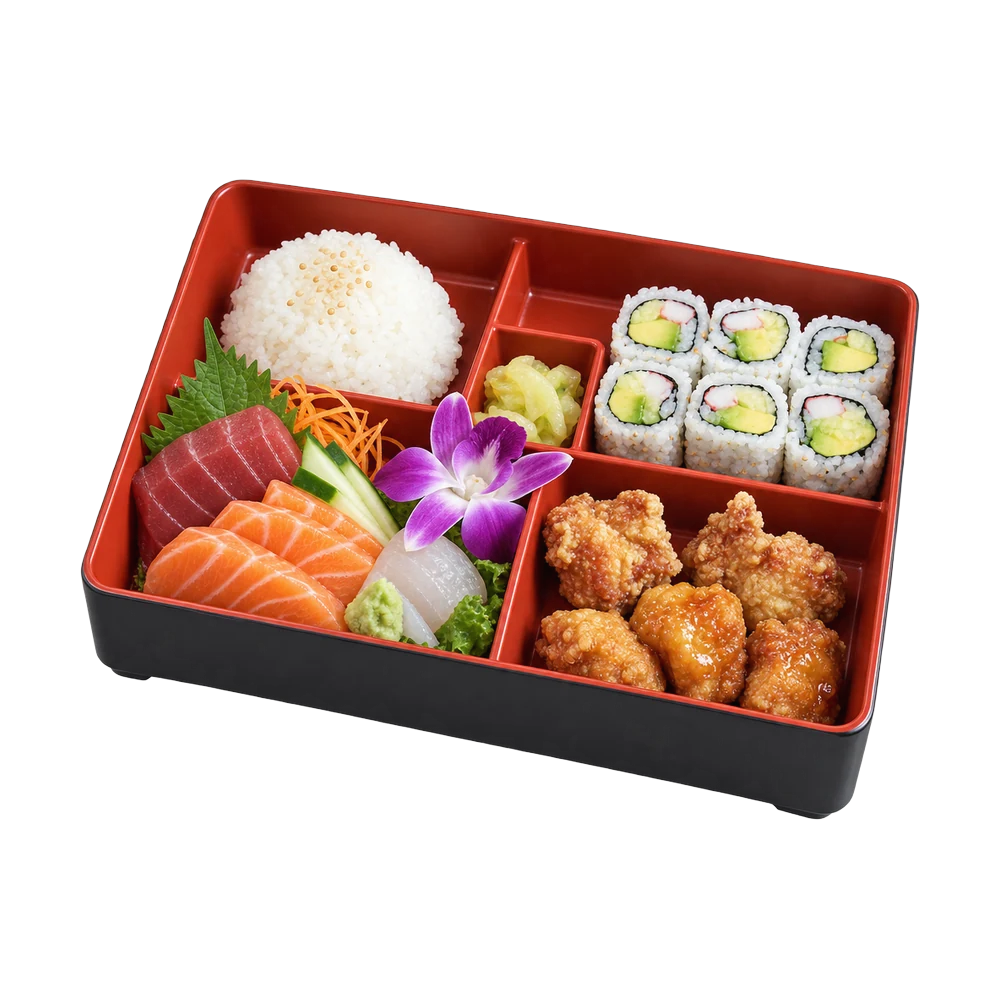
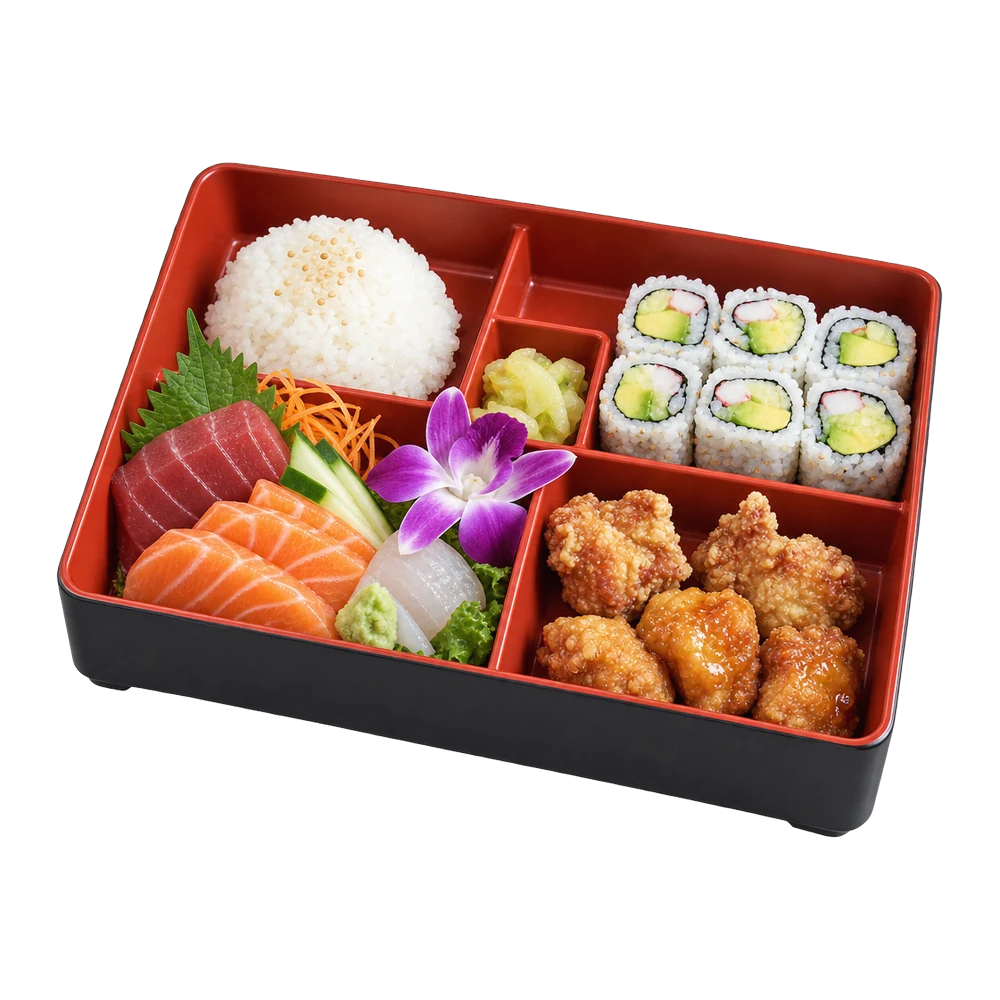
手机版多重验证 + 店家旧拍摄入站(菜单 27 张透明图、相册 +4)+ 独立审稿后的手机端修正
手机验证(毛 10-02): seo/check-mobile.mjs(npm run mobile)——iPhone WebKit / Pixel Chromium / 360 / 320 四种配置 × 10 页:图片全加载且不糊、无横向溢出、无报错;展开导航/下拉(展开后 RESERVE TODAY 仍够得着)/页签/分类/地图/相册/表单/底部栏;锚点不被粘性栏盖住;触屏无悬停放大、悬浮在跑、减少动效全停、视频点按播放、开场可跳过、页头不抖;菜品图每排排满。三种注入缺陷(溢出/糊图/锚点被盖)均已红。
首轮即查出: Happy Hour 页只有 1 张图 → 补 3 张同名小食图。
店家旧拍摄(Google Drive 594 张,精选 63 张存飞书与 fyno-proposals):
- 菜单透明图(同一套 prompt,参考=店家自己的照片)+8: Spicy Beef Ramen / Tomato Seafood Ramen / Chicken Yaki Udon(正俯拍)/ Karaage / Crispy Wings / 69 Shrimp / Salmon Lunch / Eel Lunch;Vegetables Ramen 换成店家照片参考
- 相册 +4(只裁切提亮调暖,不生成),成组插在中间,电脑/手机都排满;tests 2/9→2/13
- 每个配图分区张数必须是 3 的倍数(三个卷的透明图已做好但只有 1 张/区,暂不上)
独立审稿(只看截图)后的修正: 透明图按视觉面积统一大小;乌冬改正俯拍;蔬菜煎饺降绿;手机首屏只留 ORDER ONLINE 一个主按钮、照片加高(RESERVE 在底部栏);展开的导航可滚动 + ORDER ONLINE 行补分隔线;灯箱背景更实、CLOSE 不再压图;页脚与底部栏之间的米色缝;版权行不再孤字;CTA 条 HUNGRY? 改白、说明不在词组中间断行;手机图注菜名/价格分两行;奇数张时最后一张占整行

Changed region(s): [[0.031, 0.155, 0.961, 0.837]]

diff --git a/content/featured.ts b/content/featured.ts
@@ -17,11 +17,14 @@ const ricePair = (teri:string,katsu:string,gyu:string):Feat[] => [
   {itemId:gyu, img:'/images/dish-gyu-don.webp', alt:'Marinated sliced beef with bell peppers and onions over rice'},
 ];
 export const featured: Record<string, Feat[]> = {
-  // 拉面三碗:都是俯拍黑碗透明图——Tonkotsu、Chicken Yuzu 来自 09-22 店内实拍(只抠背景),Vegetables Ramen 来自顾客照片参考
+  // 拉面:俯拍黑碗透明图。Tonkotsu / Chicken Yuzu 来自 09-22 店内实拍;其余来自店家早先自己的拍摄(Google Drive 4.13–8.18)
   'dinner--ramen-noodles': [
     {itemId:'dinner-13-2',  img:'/images/dish-tonkotsu.webp', alt:'Tonkotsu ramen with braised pork belly, soft eggs, corn and arugula in a black bowl'},
     {itemId:'dinner-13-16', img:'/images/dish-chicken-yuzu.webp', alt:'Grilled chicken yuzu ramen with soft eggs, lime and bok choy in a black bowl'},
-    {itemId:'dinner-13-11', img:'/images/dish-vegetable-ramen.webp', alt:'Vegetables ramen with glazed tofu, shiitake, bok choy and spinach in a black bowl'},
+    {itemId:'dinner-13-11', img:'/images/dish-vegetables-ramen.webp', alt:'Vegetables ramen with glazed tofu, shiitake, bok choy and spinach in a black bowl'},
+    {itemId:'dinner-13-5',  img:'/images/dish-spicy-beef-ramen.webp', alt:'Spicy beef ramen with roasted chashu beef, arugula and shredded red pepper'},
+    {itemId:'dinner-13-13', img:'/images/dish-tomato-seafood-ramen.webp', alt:'Tomato seafood ramen with shrimp, squid, scallops and bean sprouts'},
+    {itemId:'dinner-13-21', img:'/images/dish-chicken-yaki-udon.webp', alt:'Chicken yaki udon with bell pepper, onion and broccoli'},
   ],
   'dinner--appetizers': [
     {itemId:'dinner-0-5',  img:'/images/dish-takoyaki.webp', alt:'Takoyaki with Kewpie mayo and bonito flakes'},
@@ -30,6 +33,9 @@ export const featured: Record<string, Feat[]> = {
     {itemId:'dinner-0-6',  img:'/images/dish-shumai.webp', alt:'Fried shrimp shumai'},
     {itemId:'dinner-0-13', img:'/images/dish-ika-yaki.webp', alt:'Grilled whole squid with teriyaki glaze and a lemon wedge'},
     {itemId:'dinner-0-1',  img:'/images/dish-edamame.webp', alt:'A bowl of steamed edamame'},
+    {itemId:'dinner-0-8',  img:'/images/dish-karaage.webp', alt:'Karaage fried chicken with sesame seeds and spicy mayo dip'},
+    {itemId:'dinner-0-10', img:'/images/dish-crispy-wings.webp', alt:'Crispy chicken wings on lettuce with jalapeño'},
+    {itemId:'dinner-0-11', img:'/images/dish-69-shrimp.webp', alt:'Five deep fried shrimp pops on lettuce'},
   ],
   'dinner--sushi-entree': [
     {itemId:'dinner-7-4', img:'/images/dish-zen-don.webp', alt:'Assorted fish over sushi rice'},
@@ -40,7 +46,15 @@ export const featured: Record<string, Feat[]> = {
   'dinner--rice-dishes': ricePair('dinner-11-2','dinner-11-5','dinner-11-4'),
   'lunch--bento-box': bentoTrio('lunch-2-8','lunch-2-4','lunch-2-3'),
   'lunch--rice-dishes': ricePair('lunch-1-2','lunch-1-5','lunch-1-4'),
+  // Happy Hour 的同名小食沿用晚市那三张(同一道菜;HH 份量店里未另行确认)
+  'happy-hour--appetizers': [
+    {itemId:'happy-hour-0-2', img:'/images/dish-edamame.webp', alt:'A bowl of steamed edamame'},
+    {itemId:'happy-hour-0-5', img:'/images/dish-gyoza.webp', alt:'Pan fried pork gyoza with dipping sauce'},
+    {itemId:'happy-hour-0-3', img:'/images/dish-shumai.webp', alt:'Fried shrimp shumai'},
+  ],
   'lunch--sushi-bar': [
     {itemId:'lunch-0-1', img:'/images/dish-lunch-sashimi.webp', alt:'Sashimi plate with sushi rice, tuna tartare, salmon, yellowtail and tuna'},
+    {itemId:'lunch-0-5', img:'/images/dish-salmon-lunch.webp', alt:'Salmon lunch: four salmon nigiri and a salmon roll'},
+    {itemId:'lunch-0-9', img:'/images/dish-eel-lunch.webp', alt:'Eel lunch: four eel nigiri and an eel roll'},
   ],
 };

diff --git a/components/Shared.tsx b/components/Shared.tsx
@@ -1,7 +1,7 @@
 import Link from '@/components/StaticLink';
 import { site } from '@/content/site';
 export function Arrow(){return <span aria-hidden="true">↗</span>;}
-export function Footer(){return <footer className="footer"><div className="footer-top"><Link href="/" className="footer-wordmark">ZEN<span>RAMEN & SUSHI</span></Link><div><span className="eyebrow">FIND YOUR ZEN</span><p>{site.address}<br/><a href={site.phoneHref}>{site.phone}</a><br/><a href={'mailto:'+site.email}>{site.email}</a></p></div><div className="footer-links"><Link href="/menu/">Menu <Arrow/></Link><Link href="/happy-hour/">Happy Hour <Arrow/></Link><Link href="/events-catering/">Events & Catering <Arrow/></Link><Link href="/gallery/">Gallery <Arrow/></Link><a href={site.order} data-cta="footer-order" target="_blank" rel="noopener noreferrer">Order online <Arrow/></a><a href={site.reserve} data-cta="footer-reserve" target="_blank" rel="noopener noreferrer">Reserve a table <Arrow/></a></div></div><div className="footer-bottom"><span>© {new Date().getFullYear()} ZEN RAMEN & SUSHI · MAXIM INTERNATIONAL GROUP INC</span><div><Link href="/privacy-policy/">Privacy Policy</Link><Link href="/terms-conditions/">Terms & Conditions</Link></div><span>NEW YORK, NY <span className="red-dot"/></span></div></footer>;}
+export function Footer(){return <footer className="footer"><div className="footer-top"><Link href="/" className="footer-wordmark">ZEN<span>RAMEN & SUSHI</span></Link><div><span className="eyebrow">FIND YOUR ZEN</span><p>{site.address}<br/><a href={site.phoneHref}>{site.phone}</a><br/><a href={'mailto:'+site.email}>{site.email}</a></p></div><div className="footer-links"><Link href="/menu/">Menu <Arrow/></Link><Link href="/happy-hour/">Happy Hour <Arrow/></Link><Link href="/events-catering/">Events & Catering <Arrow/></Link><Link href="/gallery/">Gallery <Arrow/></Link><a href={site.order} data-cta="footer-order" target="_blank" rel="noopener noreferrer">Order online <Arrow/></a><a href={site.reserve} data-cta="footer-reserve" target="_blank" rel="noopener noreferrer">Reserve a table <Arrow/></a></div></div><div className="footer-bottom"><span>© {new Date().getFullYear()} ZEN RAMEN & SUSHI · <span className="nowrap">MAXIM INTERNATIONAL GROUP INC</span></span><div><Link href="/privacy-policy/">Privacy Policy</Link><Link href="/terms-conditions/">Terms & Conditions</Link></div><span>NEW YORK, NY <span className="red-dot"/></span></div></footer>;}
 export function PageHeading({label,title,description}:{label:string;title:string;description?:string}){return <section className="page-heading container"><p className="eyebrow red">{label}</p><h1>{title}<span className="red">.</span></h1>{description&&<p className="page-description">{description}</p>}</section>;}
 export function GalleryStrip(){return <section className="gallery-preview container"><div className="section-heading"><div><p className="eyebrow red">A TASTE OF ZEN</p><h2>Good food.<br/>Great company.</h2></div><Link className="text-link" href="/gallery/">EXPLORE THE GALLERY <Arrow/></Link></div><div className="gallery-strip"><img src="/images/shot-strip-seared-roll.webp" width="1536" height="1024" alt="A seared special roll with spicy mayo, eel sauce and an orchid" loading="lazy"/><img src="/images/shot-dining-room-bright.webp" width="1536" height="1024" alt="The dining room under paper lanterns and banners" loading="lazy"/><img src="/images/shot-strip-lantern.webp" width="1536" height="1024" alt="A glowing paper lantern among hanging banners" loading="lazy"/></div></section>;}
 

diff --git a/app/globals.css b/app/globals.css
@@ -148,3 +148,28 @@ html{overflow-anchor:none}
 @media(prefers-reduced-motion:reduce){.featured-photo img{transition:none}}
 
 /* 2026-10-02 链接审计: .food-section 曾用 content-visibility:auto + 估高 900px,真实高度大得多 → 点分类链接/带 # 打开菜单页时,浏览器按估高算位置、滚动中又被撑开,落点偏几千像素(落在别的区块)。去掉,改成正常渲染。 */
+
+/* ===== 手机版复核 2026-10-02(独立审稿后的修正;只动手机端细节,不改结构) ===== */
+.cta-band .eyebrow{color:#fff}
+.cta-band-note span{white-space:nowrap}
+.lightbox::backdrop{background:#0e100efa}
+.lightbox-close{padding:16px 2px 16px 14px}
+.lightbox-close:focus-visible{outline:2px solid #fff;outline-offset:-4px}
+.footer-bottom .nowrap{white-space:nowrap}
+@media(max-width:1000px){
+/* 展开的导航可以在面板内滚动:ORDER ONLINE 下拉打开后,下面的 EVENTS/CATERING 与 RESERVE TODAY 仍够得着 */
+.navigation.mobile-open{max-height:calc(100dvh - var(--header-h));overflow-y:auto;overscroll-behavior:contain;-webkit-overflow-scrolling:touch}
+.navigation.mobile-open .delivery{border-bottom:1px solid var(--line)}
+}
+@media(max-width:650px){
+/* 首屏:底部固定栏已有 RESERVE,首屏只留一个主按钮,把高度让给菜品照片 */
+.hero-actions .text-link{display:none}
+.hero-photo{height:clamp(180px,27svh,290px)}
+/* 底部固定栏高 68px;原来给 body 留 76px,多出的 8px 在页脚下面露出一条米色 */
+body{padding-bottom:calc(68px + env(safe-area-inset-bottom))}
+/* 菜品图注:菜名一行、价格另起一行,避免「Ramen」「(Dry)」单独掉到第二行 */
+.featured-dish figcaption{flex-direction:column;align-items:flex-start;gap:2px}
+/* 一排两张时,奇数张的最后一张占满整行(横向卡片),不留空格 */
+.featured-dish:last-child:nth-child(odd){grid-column:1 / -1}
+.featured-dish:last-child:nth-child(odd) .featured-photo{aspect-ratio:2/1}
+}

diff --git a/content/media.ts b/content/media.ts
@@ -4,6 +4,11 @@ export const gallery = [
  {src:'/images/shot-hero-noodle-lift.webp',alt:'Chopsticks lifting thick noodles from a bowl of grilled chicken noodle soup',label:'NOODLES',wide:false},
  {src:'/images/shot-long-table.webp',alt:'A long communal table set for a group in the Zen dining room',label:'THE SPACE',wide:false},
  {src:'/images/shot-shared-table.webp',alt:'Ramen, sushi rolls and an iced drink shared across one table',label:'AT THE TABLE',wide:false},
+ // 以下四张来自店家早先自己的拍摄(Google Drive 4.13–8.18),只裁切+提亮+调暖,不生成。成组插在中间:宽/窄/窄/宽,电脑(3 列)和手机(2 列)都排满
+ {src:'/images/archive-table-spread.webp',alt:'A full table seen from above: ramen, yaki udon, sushi rolls, gyoza and karaage',label:'THE SPREAD',wide:true},
+ {src:'/images/archive-vegetable-ramen.webp',alt:'Vegetable ramen with glazed tofu, bok choy and greens, seen from above',label:'VEGGIE RAMEN',wide:false},
+ {src:'/images/archive-karaage.webp',alt:'Karaage fried chicken with sesame seeds and a spicy mayo dip, seen from above',label:'SMALL PLATES',wide:false},
+ {src:'/images/archive-sushi-platter.webp',alt:'A sushi and sashimi platter with an orchid',label:'FROM THE SUSHI BAR',wide:true},
  {src:'/images/shot-sashimi-box.webp',alt:'A wooden box of salmon, tuna and yellowtail sashimi with sushi rolls',label:'SUSHI & SASHIMI',wide:true},
  {src:'/images/shot-hh-martini.webp',alt:'A pink martini on the wooden bar',label:'HAPPY HOUR',wide:false},
  {src:'/images/shot-gallery-lantern.webp',alt:'A paper lantern and hanging banners in the dining room',label:'THE DETAILS',wide:false},

diff --git a/components/CtaBand.tsx b/components/CtaBand.tsx
@@ -10,7 +10,7 @@ export default function CtaBand(){
   if(HIDE.includes(path)) return null;
   return <section className="cta-band" aria-labelledby="cta-band-title">
     <div className="cta-band-inner">
-      <div><p className="eyebrow">HUNGRY?</p><h2 id="cta-band-title">Ramen &amp; sushi, ready when you are.</h2><p className="cta-band-note">150 W 36th St, Midtown · Walk-ins welcome · Happy hour daily 4–8 PM</p></div>
+      <div><p className="eyebrow">HUNGRY?</p><h2 id="cta-band-title">Ramen &amp; sushi, ready when you are.</h2><p className="cta-band-note"><span>150 W 36th St, Midtown</span> · <span>Walk-ins welcome</span> · <span>Happy hour daily 4–8 PM</span></p></div>
       <div className="cta-band-actions">
         <a className="button button-cream" href={site.order} data-cta="band-order" target="_blank" rel="noopener noreferrer">ORDER ONLINE <Arrow/></a>
         <a className="button button-ghost" href={site.reserve} data-cta="band-reserve" target="_blank" rel="noopener noreferrer">RESERVE A TABLE <Arrow/></a>

diff --git a/tests/site.spec.ts b/tests/site.spec.ts
@@ -29,7 +29,7 @@ test('mobile navigation, delivery menu and Escape',async({page})=>{
 });
 test('gallery dialog keyboard controls and focus restoration',async({page})=>{
  await page.goto('/gallery/');const first=page.getByRole('button',{name:/Enlarge:/}).first();await first.click();
- await expect(page.getByRole('dialog')).toBeVisible();await page.keyboard.press('ArrowRight');await expect(page.locator('.lightbox-controls')).toContainText('2 / 9');
+ await expect(page.getByRole('dialog')).toBeVisible();await page.keyboard.press('ArrowRight');await expect(page.locator('.lightbox-controls')).toContainText('2 / 13');
  await page.keyboard.press('Escape');await expect(page.getByRole('dialog')).not.toBeVisible();await expect(first).toBeFocused();
 });
 test('map loads only on request and can switch back without shifting the card',async({page})=>{

diff --git a/docs/menu-dish-images.md b/docs/menu-dish-images.md
@@ -1,6 +1,6 @@
 # 菜单菜品透明图：怎么来的、prompt 是什么（2026-10-02）
 
-菜单页 featured 区的 19 张 `public/images/dish-*.webp`（15 道原有 + 10-02 补的拉面三碗 + Bento 的刺身便当），不是 AI 凭空画的菜，也不是直接用顾客照片：
+菜单页 featured 区的 27 张 `public/images/dish-*.webp`（15 道原有 + 10-02 补的拉面三碗 + Bento 的刺身便当），不是 AI 凭空画的菜，也不是直接用顾客照片：
 **每张都以同一道菜的一张真实顾客照片（Google Maps）为参考，用 gpt-image-2.5「编辑」生成**，要求「同一道菜，只提升拍摄质量」，输出真透明背景。生成后由毛逐张对照真实参考审过（2026-10-02）。
 
 ## 通用 prompt（每张都用，后面接一句菜的描述）
@@ -46,3 +46,13 @@ gpt-image-2.5-sunburst（质量优先档）· 编辑接口 + `background=transpa
 
 ## 验收
 `node seo/check-menu-photos.mjs data|render` · `node seo/check-menu-motion.mjs`（动效）。
+
+
+## 2026-10-02 补:店家自己的旧拍摄(Google Drive)
+Google Drive「Zen Ramen & Sushi」(5 次拍摄 4.13–8.18,594 张照片 + 315 条视频,Sony A7R5,店家自己请人拍的 → 无版权顾虑)。全部看过,精选 63 张存在飞书 `024 Zen Ramen Penn/图片/1002 店家旧拍摄精选(Google Drive)`(token `E2iVfFs0Ql9FSqdfSsuc1C5jnHc`)与 `fyno-proposals/clients/zenramen-midtown/drive-shoot-picks-2026-10-02/`(含 README 索引、每张的 Drive 原片链接、全量缩略总览)。
+- **菜单透明图(同一套 prompt,参考=店家自己的照片)新增 8 张 + 替换 1 张**:Spicy Beef Ramen、Tomato Seafood Ramen(去掉了碗里的木勺)、Chicken Yaki Udon(改成正俯拍,和一排俯拍拉面碗统一)、Karaage、Crispy Wings、69 Shrimp、Salmon Lunch — Sushi、Eel Lunch — Sushi;Vegetables Ramen 由「顾客照片参考」换成「店家照片参考」(`dish-vegetables-ramen.webp`,旧 `dish-vegetable-ramen.webp` 已删)。
+- **相册加 4 张场景图** `archive-*.webp`(整桌俯拍 THE SPREAD / 素拉面俯拍 VEGGIE RAMEN / 唐扬俯拍 SMALL PLATES / 寿司刺身拼盘 FROM THE SUSHI BAR):只裁切 + 提亮 + **把灰色桌面调成暖木色**(对低饱和像素乘 R×1.20、B×0.66,对有颜色的食物只轻微调暖),与现有木桌暖调统一,不生成。成组插在相册中间,顺序 宽/窄/窄/宽,电脑 3 列与手机 2 列都排满(窄图必须成对出现,否则手机上会空一格)。试过又弃用的:炒乌冬(上半截是虚的砖墙)、鸡翅(过饱和、被裁)、便当(黑盒子占一半)、心形卷特写(发虚)。
+- **一排必须排满**:每个有配图的分区,图的张数必须是 3 的倍数(`check-menu-photos.mjs data` 强制)。Rainbow / Crazy Yellowtail / Sweetheart 三个卷的透明图已做好但**没上线**(各自分区只有 1 张,会留一大块空白);等同分区再凑 2 张能对上菜名的卷再上。
+- Tomato Seafood Ramen 的菜名是按菜单描述推断的(红汤、普通豆芽、无辣椒丝),待店里确认。
+- **统一大小(独立审稿后)**:透明图不再按「长边 84%」,而是按**外接框面积占画布 60%、长边不超过 90%**缩放——长盘子(煎饺、鸡翅、便当)不再显得比圆碗小一圈。重新处理要从原始 1024 PNG 做(母版在 `fyno-proposals/clients/zenramen-midtown/menu-dish-cutouts-2026-10-01/png/` 与本次会话的生成目录),不要拿 webp 二次缩放。
+- 蔬菜煎饺绿色过艳:只对绿色占优的像素降饱和 22%。

diff --git a/GATES-menu-photos.md b/GATES-menu-photos.md
@@ -2,14 +2,14 @@
 
 OWNS: content/featured.ts, content/photo-sources.json, components/MenuBrowser.tsx, components/DishMotion.tsx, app/menu/page.tsx, app/globals.css, public/images/dish-*.webp, seo/check-menu-photos.mjs, seo/check-menu-motion.mjs, docs/design-references.md, docs/menu-dish-images.md, GATES-menu-photos.md
 
-Scope: 午市/晚市菜单页的 19 张菜品图 = 以真实顾客照片为参考、「同一道菜只改拍摄质量」重拍的透明背景图,每张只出现在它拍的那道菜上;图上加轻微动效(悬浮、移上放大),不改结构、不遮挡文字与下单。
+Scope: 菜单页的 27 张菜品图 = 以真实顾客照片为参考、「同一道菜只改拍摄质量」重拍的透明背景图,每张只出现在它拍的那道菜上;图上加轻微动效(悬浮、移上放大),不改结构、不遮挡文字与下单。
 
-- [x] M1: 数据对:每个配图条目的分区/菜品都存在;每张菜品透明图有来源台账、只挂在台账允许的菜品上;文件是 ≥1000 的方图、有透明通道、菜离画布边 ≥5%、≤250KB;共 19 张都被使用
+- [x] M1: 数据对:每个配图条目的分区/菜品都存在;每张菜品透明图有来源台账、只挂在台账允许的菜品上;文件是 ≥1000 的方图、有透明通道、菜离画布边 ≥5%、≤250KB;共 27 张都被使用,且每个分区的张数是 3 的倍数
   CHECK: node seo/check-menu-photos.mjs data 2>&1 | node -e "let s='';process.stdin.on('data',d=>s+=d).on('end',()=>console.log(s.includes('MENU-PHOTOS-DATA PASS')?'MENU-PHOTOS-DATA PASS':s))"
   EXPECT: MENU-PHOTOS-DATA PASS
   EVIDENCE: exit=0; shell=/bin/sh; cwd=/Users/apple/Desktop/Orca/zen-ramen-sushi-v2; path=b23d0ac203a6/32 entries; EXPECT=matched; output-sha256=69962908fed6cfb69f211cdca41fd56dcca43ff11b10c8dc001b7b2fe850554a; output-bytes=22
 
-- [x] M2: 渲染对:电脑与手机上,午市页有 ≥7 张、晚市页有 ≥18 张图真的显示(已加载、宽度≥1000)、图注正确(Katsu Bento Box / I. Shrimp Teriyaki / D. Sashimi (5 pcs) / Gyu Don)、无横向溢出
+- [x] M2: 渲染对:电脑与手机上,午市页有 ≥9 张、晚市页有 ≥24 张图真的显示(已加载、宽度≥1000)、图注正确(Katsu Bento Box / I. Shrimp Teriyaki / D. Sashimi (5 pcs) / Gyu Don / Salmon Lunch — Sushi / Eel Lunch — Sushi)、无横向溢出
   CHECK: node seo/check-menu-photos.mjs render
   EXPECT: MENU-PHOTOS-RENDER PASS
   EVIDENCE: exit=0; shell=/bin/sh; cwd=/Users/apple/Desktop/Orca/zen-ramen-sushi-v2; path=b23d0ac203a6/32 entries; EXPECT=matched; output-sha256=295b7aea21da1228f8ed9f3fc7acf1bc7b87932cb7722c758ee5d7ae1460bb37; output-bytes=493

diff --git a/GATES-mobile.md b/GATES-mobile.md
@@ -1,0 +1,24 @@
+# Gates: 手机版多重验证(2026-10-02)
+
+OWNS: seo/check-mobile.mjs, GATES-mobile.md, package.json, app/globals.css, components/**, CLAUDE.md
+
+Scope: 手机版按「按钮/链接审计」同一标准测过,并覆盖「展开信息(导航/下拉/页签/分类)、动态(悬浮/视频/减少动效/触屏无悬停/页头不抖)、图片(全部加载/不破图/不糊/不溢出)」;iPhone WebKit + 安卓 Chromium + 360/320 窄屏;本地 + 线上;独立冷眼审稿;全部合并上线。
+
+- [ ] M1: 4 种手机配置(iPhone 13 WebKit / Pixel 7 Chromium / 360×740 / 320×568)×10 个页面:全部图片加载成功且不糊、无横向溢出、无控制台报错与同源 4xx/5xx;展开导航/ORDER ONLINE 下拉/菜单页签/分类导航/地图切换/相册/表单/底部操作栏/锚点落点(不被粘性栏盖住);动态(触屏无悬停放大、悬浮在跑、减少动效全停、视频点按播放、开场动画可跳过、页头不抖)
+  CHECK: node seo/check-mobile.mjs
+  EXPECT: MOBILE PASS
+  EVIDENCE: pending
+
+- [x] M2: 检查能报红:注入三种手机端缺陷(整宽溢出 / 糊图 / 锚点被粘性栏盖住),各自必须失败
+  EVIDENCE: 2026-10-02 三种注入缺陷均变红(各自跑完后还原再跑一遍 PASS):①给 .hero-copy 加 width:130vw(整宽溢出)→ 320 窄屏配置 FAIL(元素被推出屏幕点不到);②把 dish-gyoza.webp 缩成 90px(糊图)→ FAIL x8「图片偏糊(原图只有显示宽度的 0.55–0.58 倍)」;③给 .food-section 加 scroll-margin-top:0(锚点被粘性栏盖住)→ FAIL x24「区块顶 0px < 粘性栏底 60px」。另:第一次跑出真实缺陷「Happy Hour 页可见图片只有 1 张」→ 已补 3 张同名小食图
+
+- [ ] M3: 独立冷眼审稿:只看手机截图的审稿员(看不到代码)对首页首屏/页尾 CTA/菜单图/展开导航/下拉/相册/底部栏给出结论,P1/P2 全部处理
+  EVIDENCE: pending
+
+- [ ] M4: 不退步:SEO 四门、类型检查、CTA 十三门、菜单图七门、链接五门、8 条 Playwright 测试
+  CHECK: npm run seo 2>&1 | node -e "let s='';process.stdin.on('data',d=>s+=d).on('end',()=>{const ok=['MAPPING PASS','META PASS','ALT PASS','PAGES PASS'].every(k=>s.includes(k));console.log(ok?'REGRESSION SEO PASS':'REGRESSION SEO FAIL\n'+s)})"
+  EXPECT: REGRESSION SEO PASS
+  EVIDENCE: pending
+
+- [ ] M5: 合并后线上回读:同一套手机检查对线上预览站通过
+  EVIDENCE: pending

diff --git a/docs/design-references.md b/docs/design-references.md
@@ -41,7 +41,7 @@
 ### 菜单单品图：真实参考 → 干净透明图（2026-10-02 取代 10-01 的「直接用顾客照片」）
 毛 10-01 定：菜单展示页的菜图**必须和实物几乎一样**。10-02 毛补充：顾客照片是「真实产品长什么样」的**参考**，网站展示要**漂亮的菜品图**，不能直接放丑图。
 - 做法：每道菜取一张真实顾客照片（Google Maps，约 130 张里挑 15 张）当参考，用 gpt-image-2.5「编辑」重新拍成干净的透明背景菜品图。prompt 的核心 = 「同一道菜，只改拍摄质量」：配料/数量/摆法/酱汁/盘子一模一样，去掉桌子杯子手，明亮影棚光、校色、清晰对焦。完整 prompt 与每道菜的描述：`docs/menu-dish-images.md`。
-- 文件：`public/images/dish-*.webp`（19 张，1000×1000 透明，最长边占画布 84%，每张 ≤250KB）。对应关系与参考来源：`content/photo-sources.json`。
+- 文件：`public/images/dish-*.webp`（27 张，1000×1000 透明，最长边占画布 84%，每张 ≤250KB）。对应关系与参考来源：`content/photo-sources.json`。
 - 验收：`node seo/check-menu-photos.mjs data|render`（图只挂在它拍的那道菜；有透明通道；离边 ≥5%）、`node seo/check-menu-motion.mjs`（动效）。**毛已逐张对照真实参考审过。**
 - ⚠ Google 自己给的标签有错（鱿鱼被标成 Godzilla Roll、虾仁照烧便当被标成 Teriyaki Salmon Bento），以**照片内容对菜单描述为准**。
 - ⚠ 参考图版权在原拍摄者；网站上展示的是重新生成的图，不含原图。仍是过渡方案，**有店内实拍后替换**。

diff --git a/GATES-cta.md b/GATES-cta.md
@@ -9,7 +9,7 @@ Scope: 把「订餐/订位/打电话/导航」做成全站显眼、可测量的 
   EXPECT: CTA-HERO-DESKTOP PASS
   EVIDENCE: exit=0; shell=/bin/sh; cwd=/Users/apple/Desktop/Orca/zen-ramen-sushi-v2; path=b23d0ac203a6/32 entries; EXPECT=matched; output-sha256=279368e5a39657334dae4074b05a1505c5f8ee1200a706ccdaf06a72d15d1490; output-bytes=22
 
-- [x] C2: 手机首屏(390×844 与 360×740):菜品照片露出 ≥140px,且 ORDER ONLINE 与 RESERVE 都在底部固定栏之上(不被挡)
+- [x] C2: 手机首屏(390×844 / 360×740 / 390×664):菜品照片露出 ≥180px,ORDER ONLINE 在底部固定栏之上(不被挡),RESERVE 由底部固定栏提供(首屏不再重复一个)
   CHECK: node seo/check-cta.mjs hero-mobile
   EXPECT: CTA-HERO-MOBILE PASS
   EVIDENCE: exit=0; shell=/bin/sh; cwd=/Users/apple/Desktop/Orca/zen-ramen-sushi-v2; path=b23d0ac203a6/32 entries; EXPECT=matched; output-sha256=d6729538c65a652351526c9cd581df8f02e0c3baaed9ebd142ade442e13ad19a; output-bytes=21
